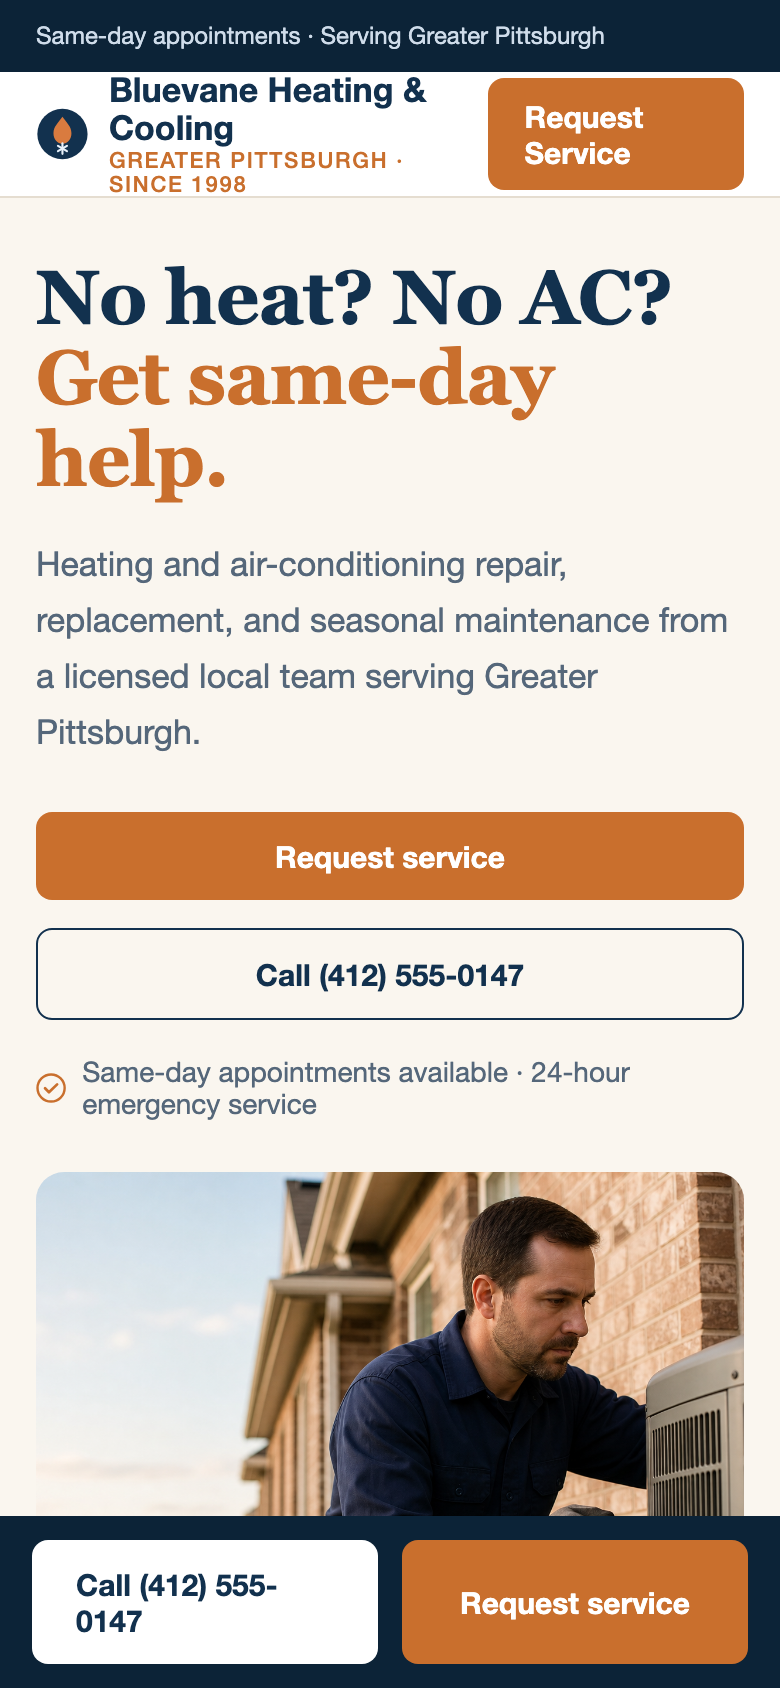
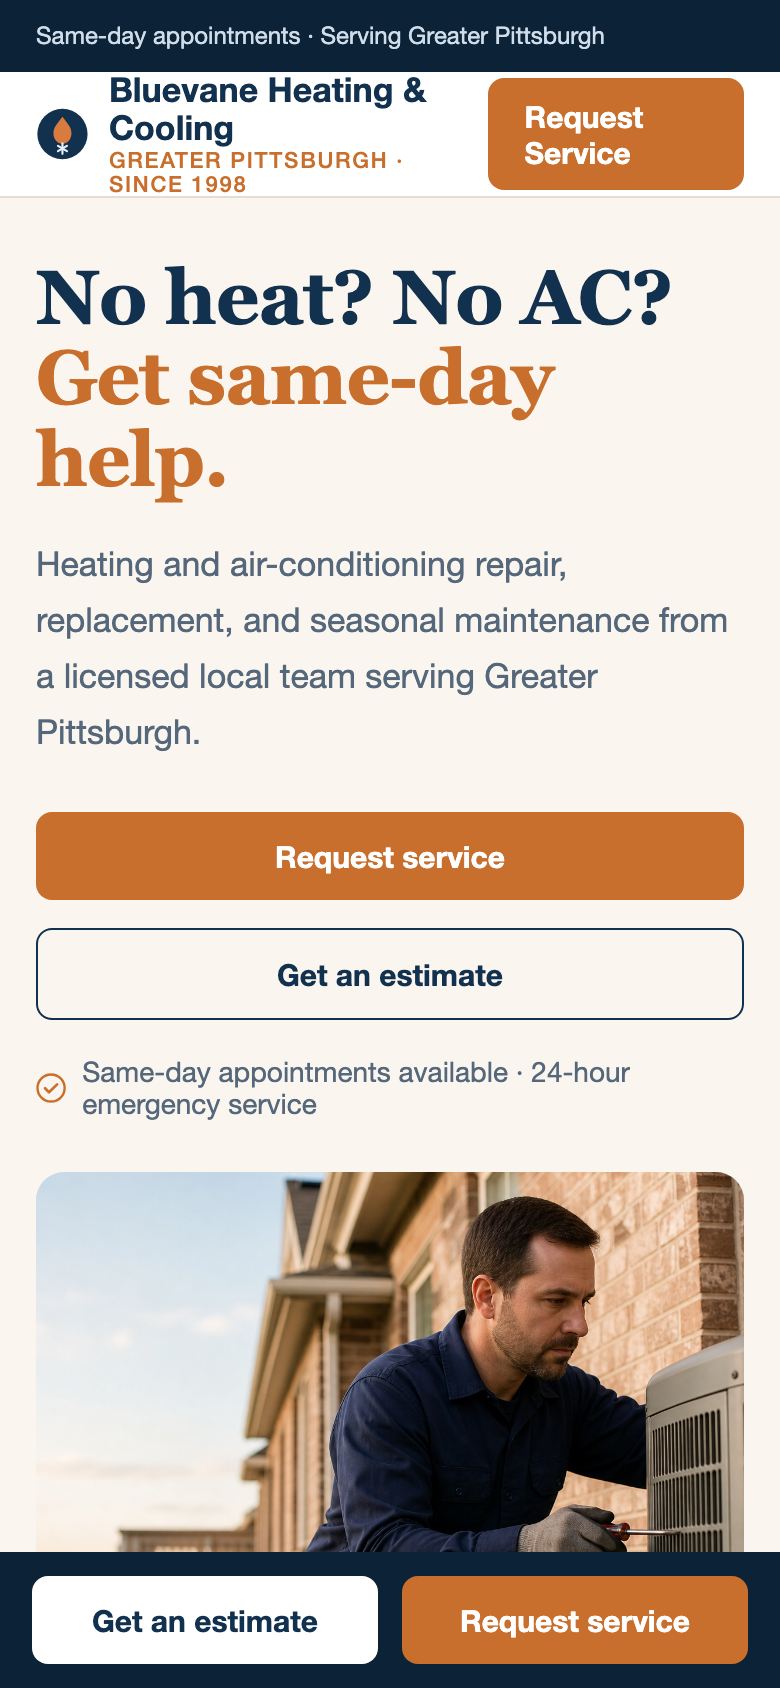
Remove all phone/fax numbers from the redline before/after mockups
Contact in the fictional Bluevane demo is now email/request-form only, so
no real business's number can ever be implied. Rebuilt all four desktop
and mobile screenshots and updated the comparison copy to match.

Changed region(s): [[0.0, 0.8934, 1.0, 0.9858], [0.3385, 0.5545, 0.6769, 0.5853]]

diff --git a/mockups/after.html b/mockups/after.html
@@ -95,7 +95,7 @@
   <div class="util">
     <div class="wrap">
       <div>Same-day appointments · Serving Greater Pittsburgh</div>
-      <div class="right">Call now: <a href="tel:+14125550147">(412) 555-0147</a></div>
+      <div class="right">24-hour emergency service</div>
     </div>
   </div>
 
@@ -108,7 +108,7 @@
       <nav class="main">
         <a href="#">Services</a><a href="#">Maintenance</a><a href="#">About</a><a href="#">Reviews</a>
       </nav>
-      <a class="hdr-phone" href="tel:+14125550147">(412) 555-0147</a>
+      <a class="hdr-phone" href="#">Get an estimate</a>
       <a class="btn btn-copper" href="#">Request Service</a>
     </div>
   </header>
@@ -121,7 +121,7 @@
         maintenance from a licensed local team serving Greater Pittsburgh.</p>
         <div class="ctas">
           <a class="btn btn-copper" href="#">Request service</a>
-          <a class="btn btn-outline" href="tel:+14125550147">Call (412) 555-0147</a>
+          <a class="btn btn-outline" href="#">Get an estimate</a>
         </div>
         <div class="meta"><svg viewBox="0 0 20 20" width="18" height="18" aria-hidden="true"><circle cx="10" cy="10" r="9" fill="none" stroke="#c96f2d" stroke-width="1.6"/><path d="M6 10.2l2.6 2.6L14 7.6" fill="none" stroke="#c96f2d" stroke-width="1.8" stroke-linecap="round" stroke-linejoin="round"/></svg> Same-day appointments available · 24-hour emergency service</div>
       </div>
@@ -175,7 +175,7 @@
   </section>
 
   <div class="mobilebar">
-    <a class="btn btn-call" href="tel:+14125550147">Call (412) 555-0147</a>
+    <a class="btn btn-call" href="#">Get an estimate</a>
     <a class="btn btn-copper" href="#">Request service</a>
   </div>
 </body>

diff --git a/mockups/before.html b/mockups/before.html
@@ -95,8 +95,8 @@
         <li>Seasonal maintenance</li>
         <li>24 hour emergency service</li>
       </ul>
-      <p class="estlink">For a free estimate please call us during regular business hours, send us a fax at
-      (412) 555-0148, or <a href="mailto:service@bluevaneheating.example">email us for an estimate</a>.</p>
+      <p class="estlink">For a free estimate please <a href="mailto:service@bluevaneheating.example">email us</a> during
+      regular business hours or stop by our office. We will respond promptly!</p>
       <div class="gallery">
         <h3 style="margin-top:0">Customer Project Photos</h3>
         <span class="thumb"><img src="technician-small.jpg" alt="install photo"></span>
@@ -105,7 +105,7 @@
     </div>
     <div id="side">
       <div class="sidebox">
-        <div class="bigphone">(412) 555-0147</div>
+        <div class="bigphone">FREE ESTIMATES!</div>
         <div style="font-size:11px; font-weight:bold;">24 Hour Emergency Service</div>
       </div>
       <div class="sidebox">
@@ -123,9 +123,8 @@
       <div class="sidebox">
         <h4>Contact Us</h4>
         <div style="font-size:11px; line-height:1.7;">
-          Phone: (412) 555-0147<br>
-          Fax: (412) 555-0148<br>
-          Email:<br><a href="mailto:service@bluevaneheating.example">service@bluevaneheating.example</a>
+          Email us at:<br><a href="mailto:service@bluevaneheating.example">service@bluevaneheating.example</a><br>
+          We will respond promptly!
         </div>
       </div>
     </div>

diff --git a/src/app/services/sections.tsx b/src/app/services/sections.tsx
@@ -23,7 +23,7 @@ export function SheetTag({ no, label }: { no: string; label: string }) {
 
 const REDLINE_DIFFS = [
   ["Buried offer", "immediate answer"],
-  ["Email and fax", "one-tap call and booking"],
+  ["Buried email link", "one-tap request and booking"],
   ["Trust below the fold", "proof beside the CTA"],
   ["Fixed-width desktop", "built for the phone"],
 ];
@@ -39,7 +39,7 @@ export function RedlineSheet({ no }: { no: string }) {
           </h2>
           <p className="svc-lede">
             Both sides use the exact same fictional HVAC company — the same
-            services, phone number, credentials, and service area. Drag the
+            services, contact details, credentials, and service area. Drag the
             divider to see what changes when customers can understand, trust,
             and act in seconds.
           </p>
